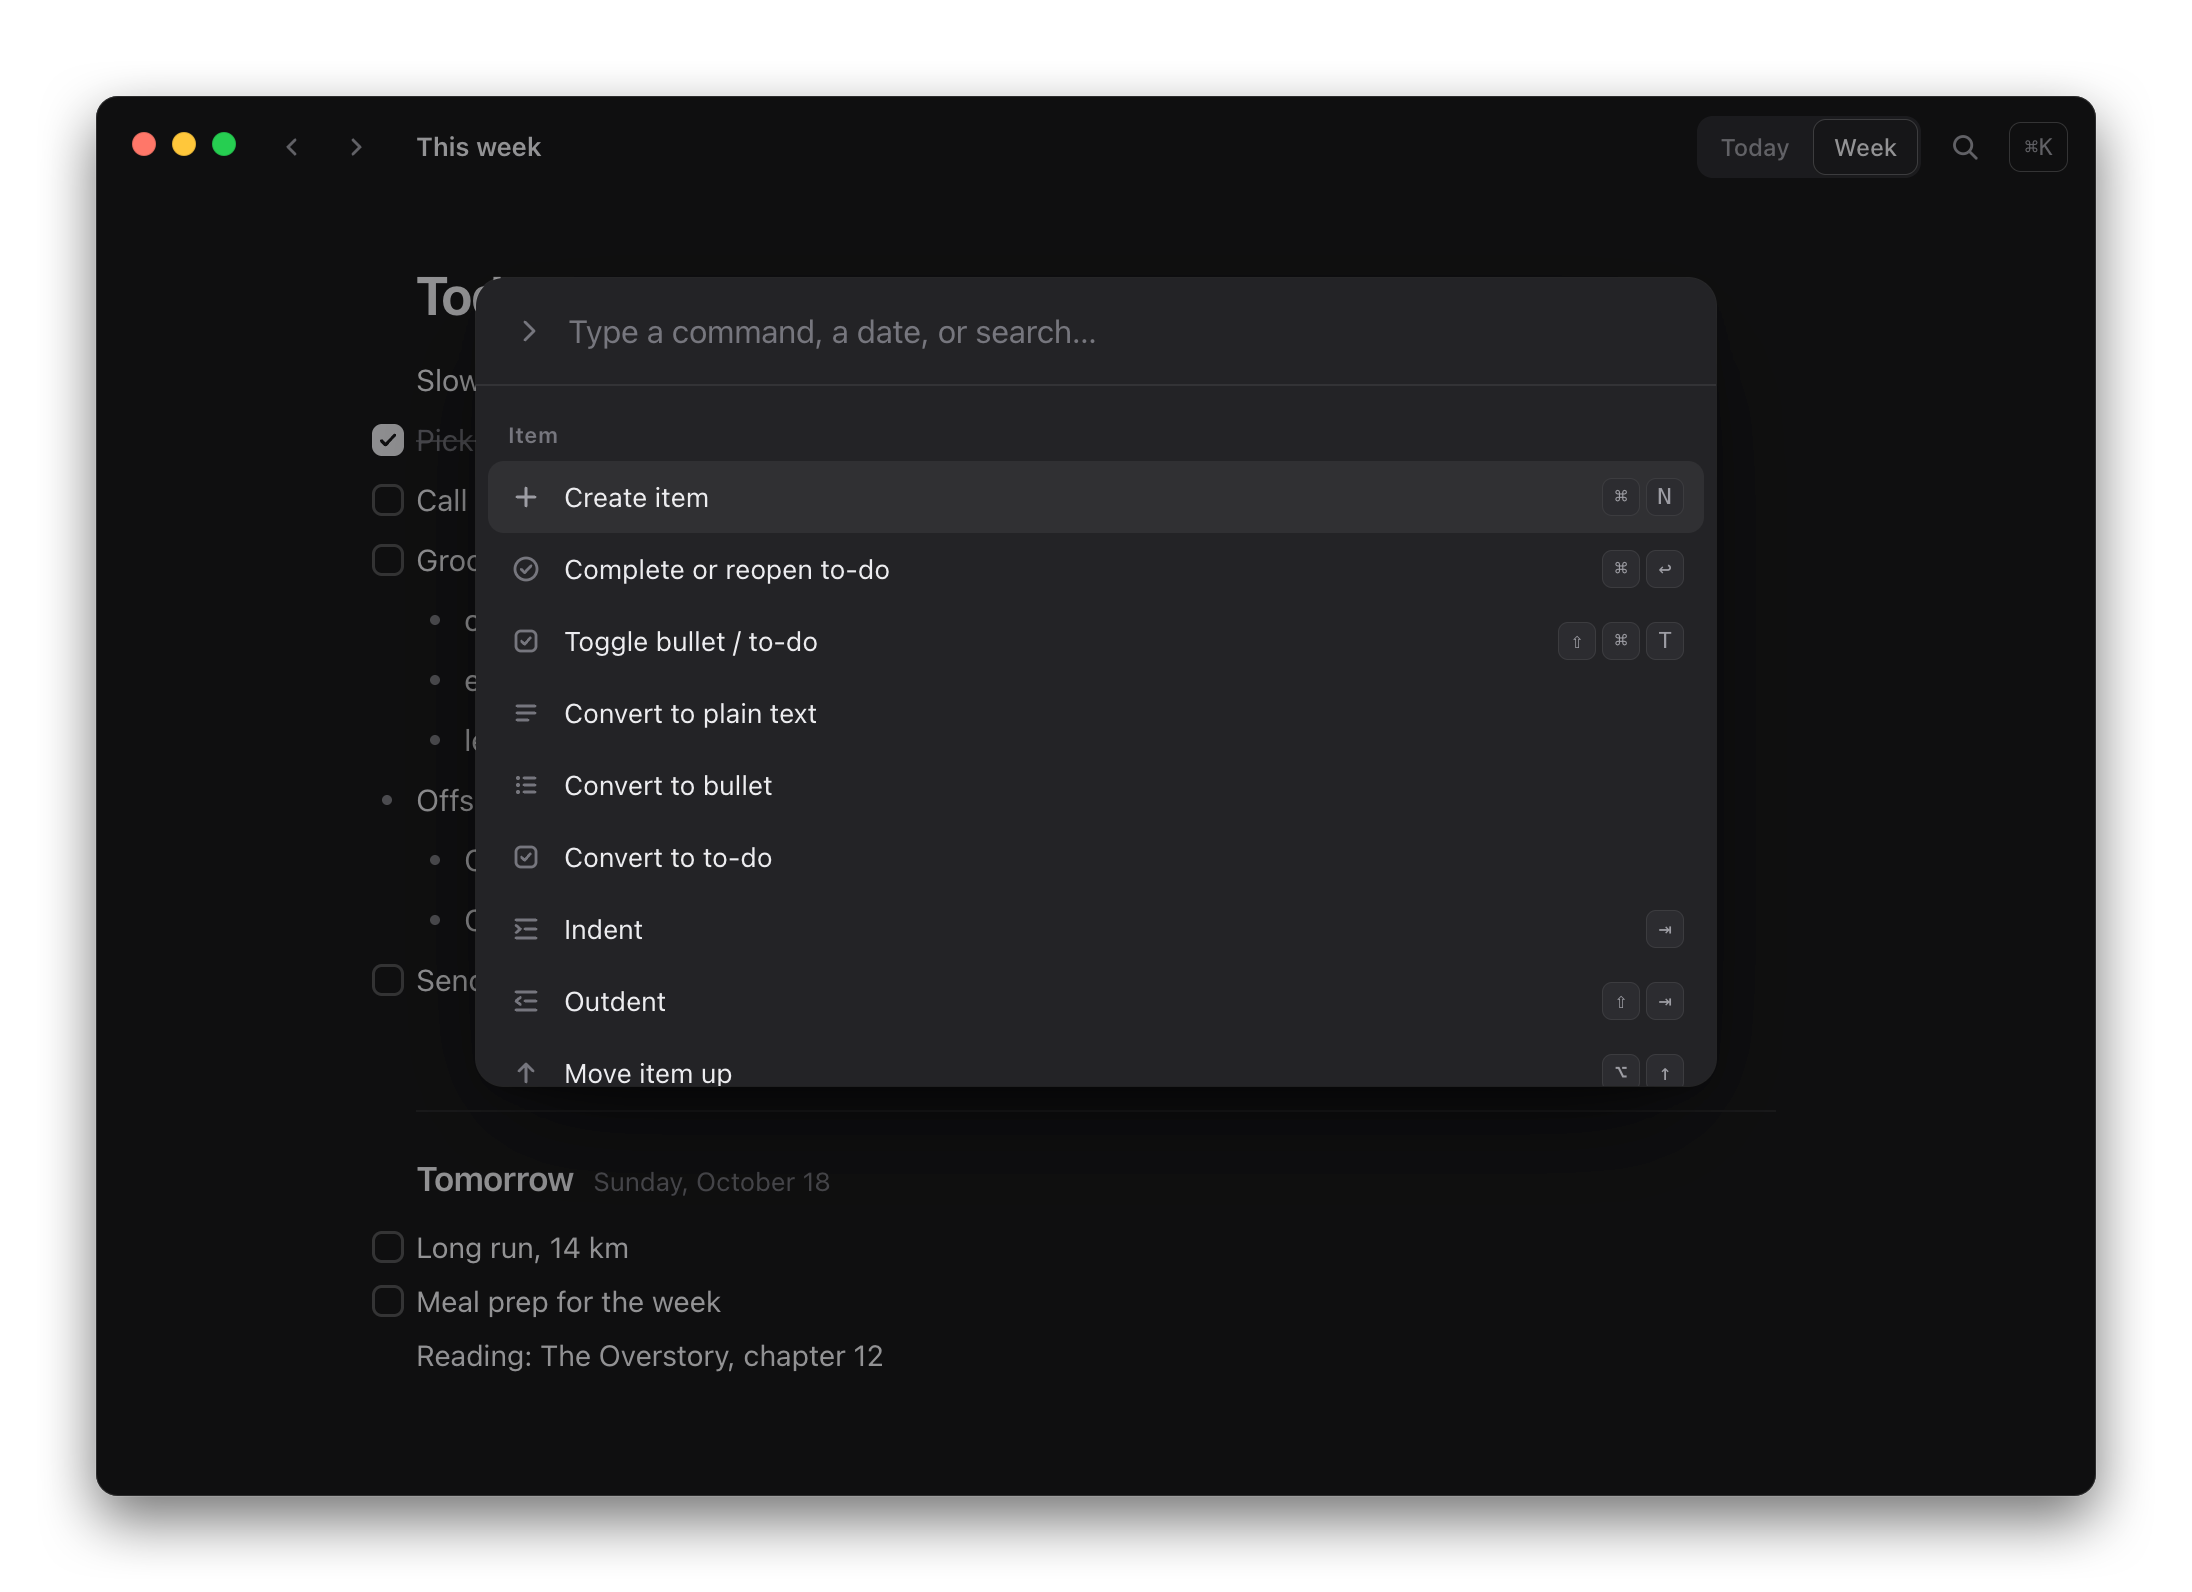
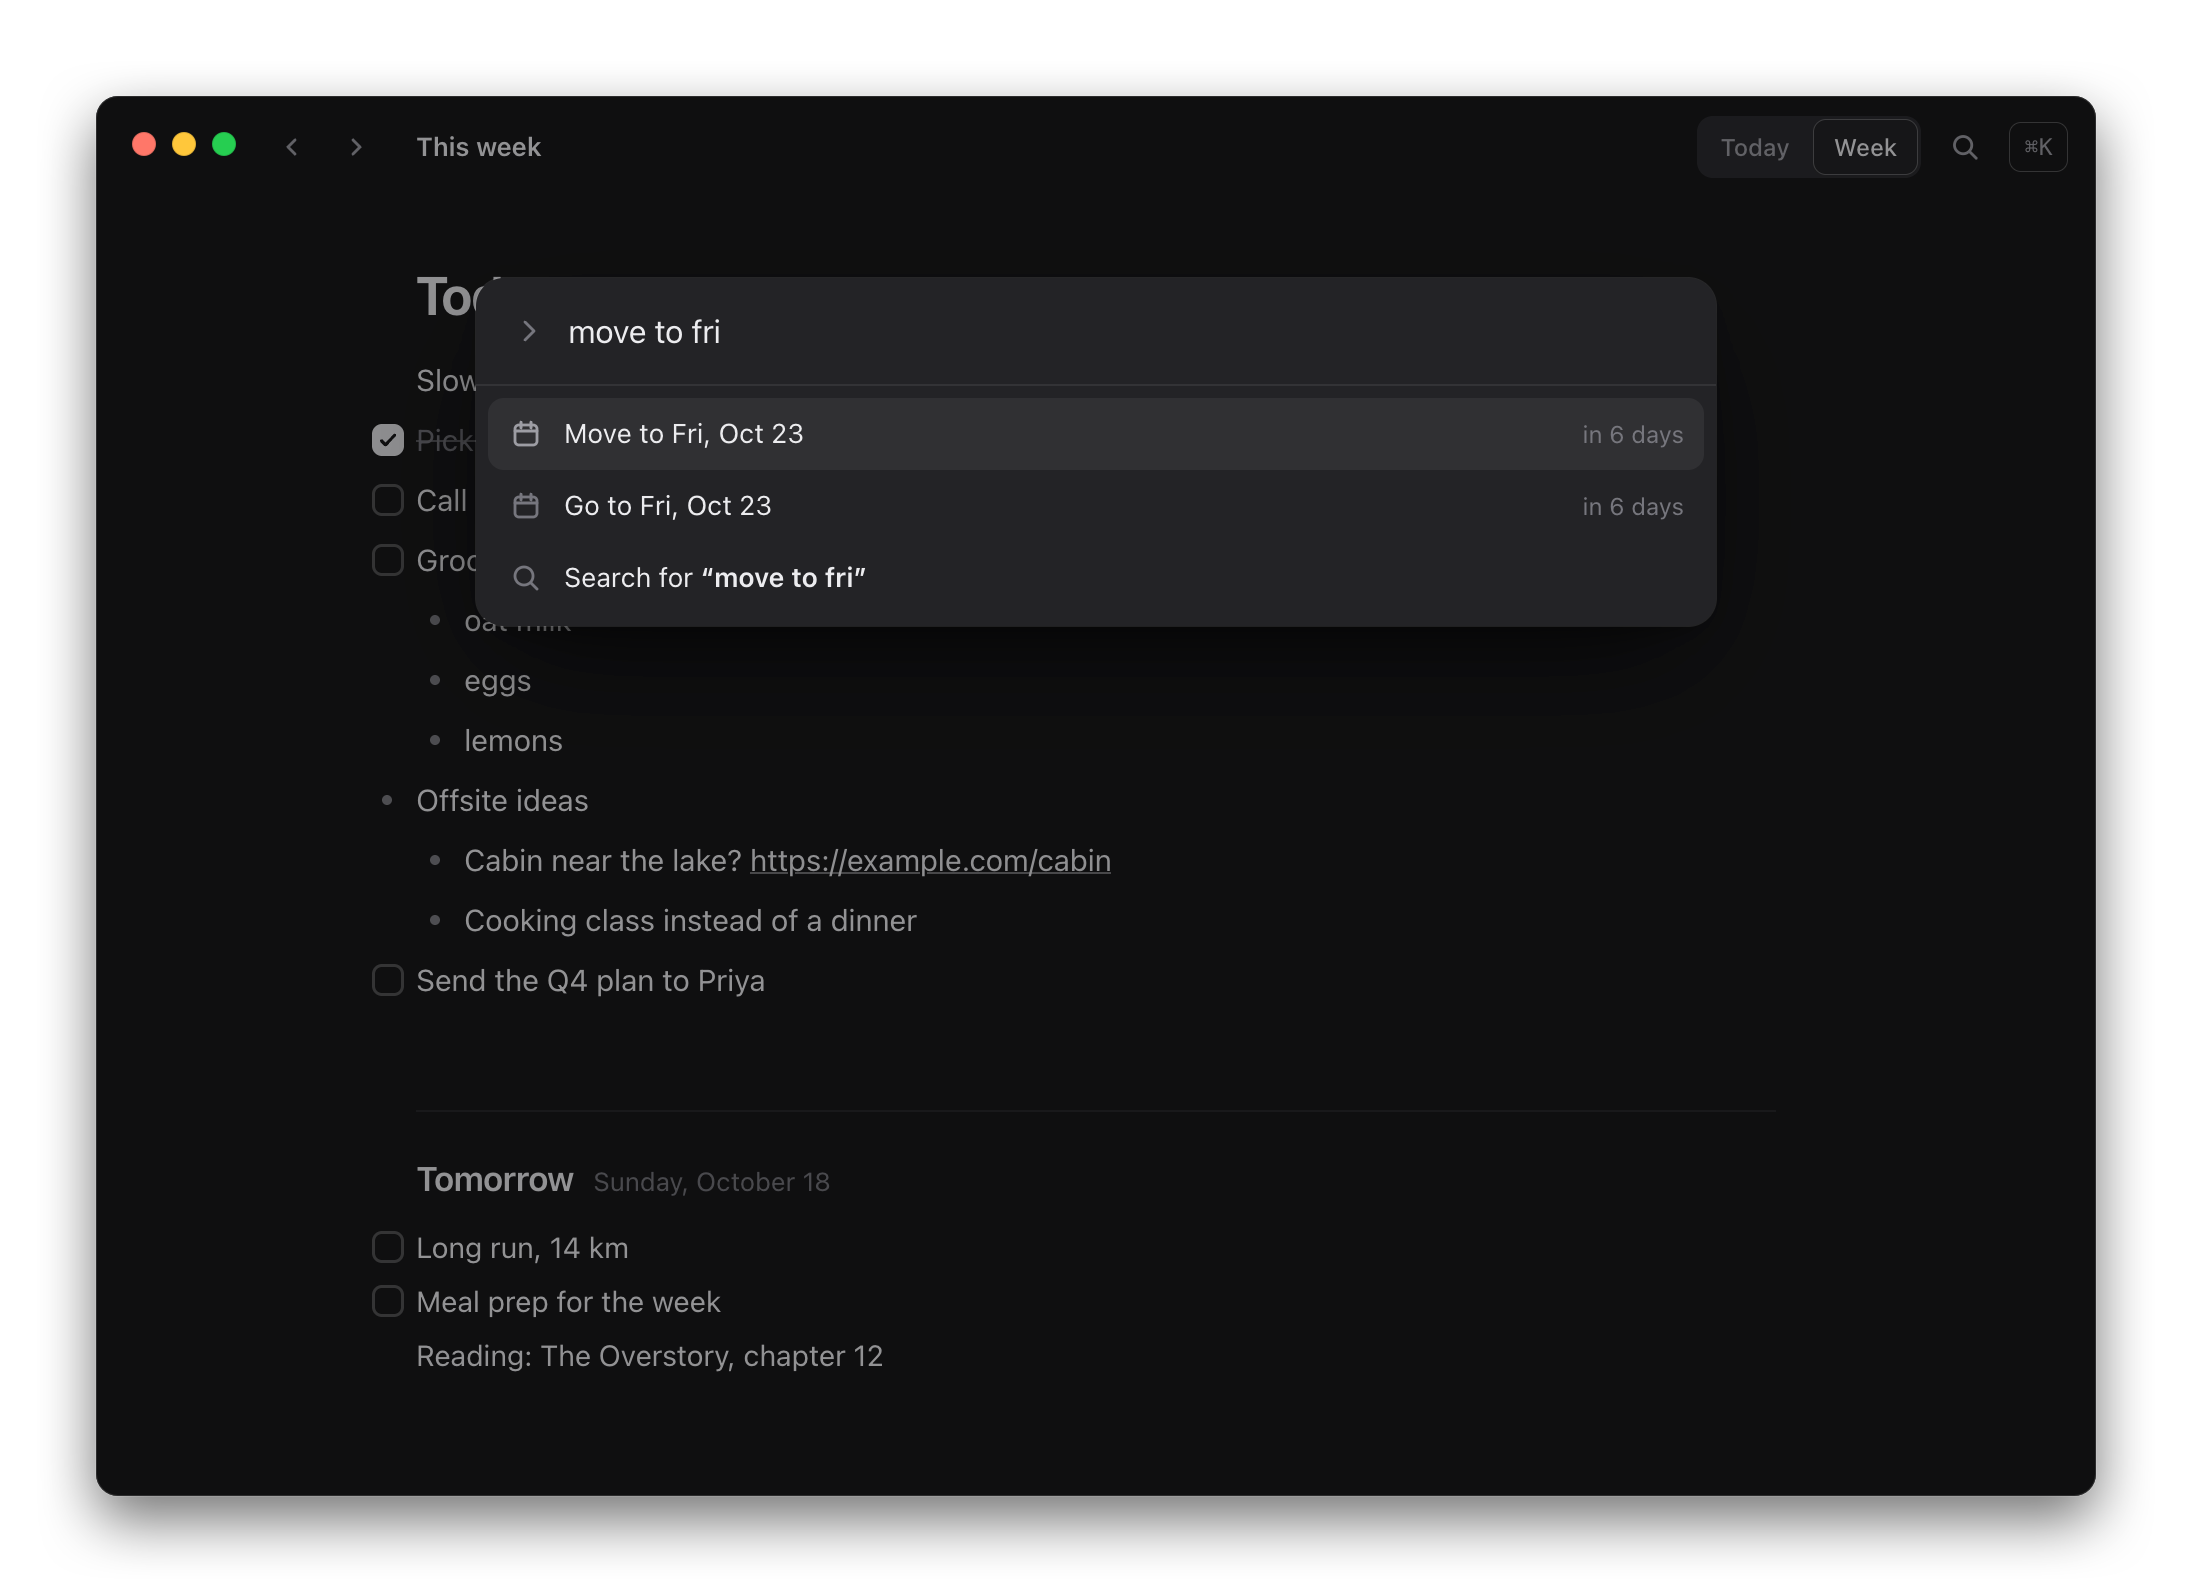
Add search, palette and shortcuts screenshots to the README
- pnpm screenshots now writes a few earlier days so search has history,
  types "move to fri" into the palette, and captures ⌘F search and the
  ⌘/ shortcuts sheet (in a taller window so the sheet doesn't scroll)
- README shows move-to-date under Organizing, the palette and search side
  by side under Finding, and the shortcuts sheet under Keyboard

diff --git a/README.md b/README.md
@@ -58,6 +58,10 @@ Cue 0.1 is a working macOS app (Apple silicon). Here is everything it does right
 - Select several lines with Esc then ⇧↑/⇧↓, by dragging across them, or with ⌘A twice. Then
   indent, move, complete, convert, copy, cut or delete them together.
 
+<p align="center">
+  <img src="docs/images/move-to-date.png" alt="Moving a to-do with ⇧⌘D: typing &quot;fri&quot; resolves to Friday, October 23, with a calendar alongside" width="80%">
+</p>
+
 **Finding**
 
 - **⌘K command palette**: fuzzy search over every action, with shortcuts shown. It also
@@ -66,6 +70,11 @@ Cue 0.1 is a working macOS app (Apple silicon). Here is everything it does right
   "oct 31", "in 3 days", "+2w", "2026-10-31", with a calendar alongside.
 - **⌘F search** across every day you've ever written. It ignores case and accents and shows each
   result's date and type; Enter opens the day with the caret on the match.
+
+<p align="center">
+  <img src="docs/images/command-palette.png" alt="The ⌘K command palette understanding &quot;move to fri&quot; as a date" width="49%">
+  <img src="docs/images/search.png" alt="⌘F search across days, with matches highlighted and each result's date" width="49%">
+</p>
 
 **Reliability**
 
@@ -189,6 +198,10 @@ first time you run `pnpm dev`). They keep their data separate from the packaged 
 | Select lines | Esc, then ⇧↑ / ⇧↓ (⌘A twice selects the whole day) |
 | Undo / redo | ⌘Z · ⇧⌘Z |
 | Every shortcut | ⌘/ |
+
+<p align="center">
+  <img src="docs/images/shortcuts.png" alt="The ⌘/ keyboard shortcuts sheet" width="80%">
+</p>
 
 ## Your data
 
